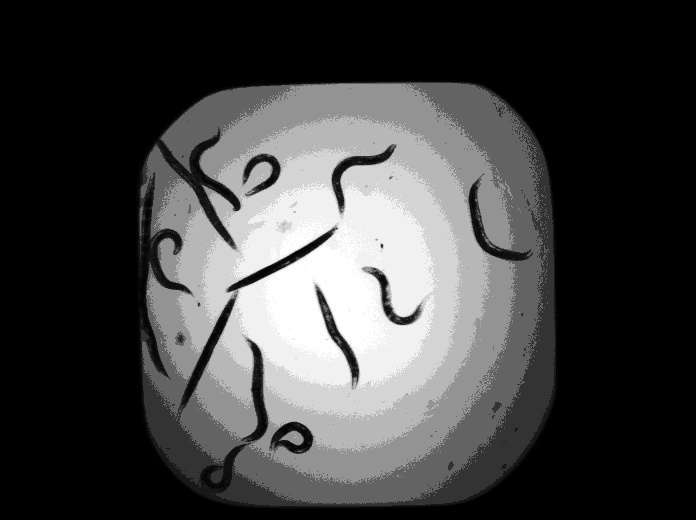
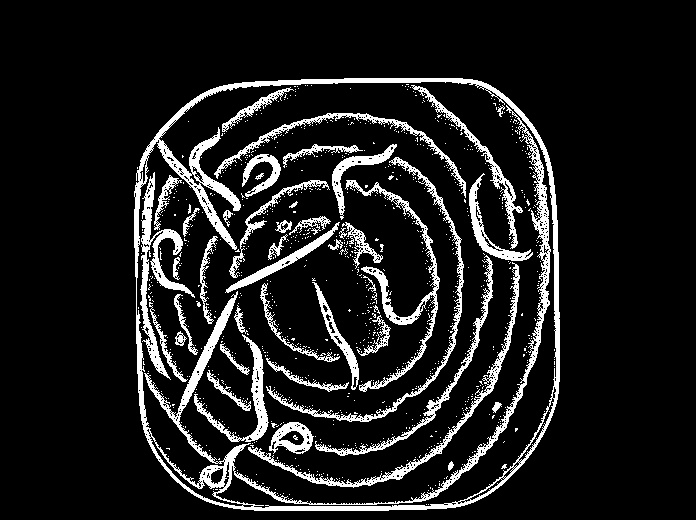
w2 inverted to be like w1, next: contouring

diff --git a/Solution/src/main.py b/Solution/src/main.py
@@ -64,9 +64,12 @@ def process_image(img, is_w1=True):
         ret, img = cv2.threshold(img, 0, 255, cv2.THRESH_BINARY)
     else:
         img = cv2.equalizeHist(img)
+        img = cv2.adaptiveThreshold(img, 255, cv2.ADAPTIVE_THRESH_GAUSSIAN_C, cv2.THRESH_BINARY_INV, 11, 2)
 
+    # todo next, contour everything, and ignore any with area bigger than or smaller than the worms,
+    # todo       eliminating borders and noise hopefully
 
-    # todo tasks from the .docx
+    # todo more tasks from the .docx
 
     # maybe useful:
     # http://docs.opencv.org/trunk/d3/db4/tutorial_py_watershed.html
